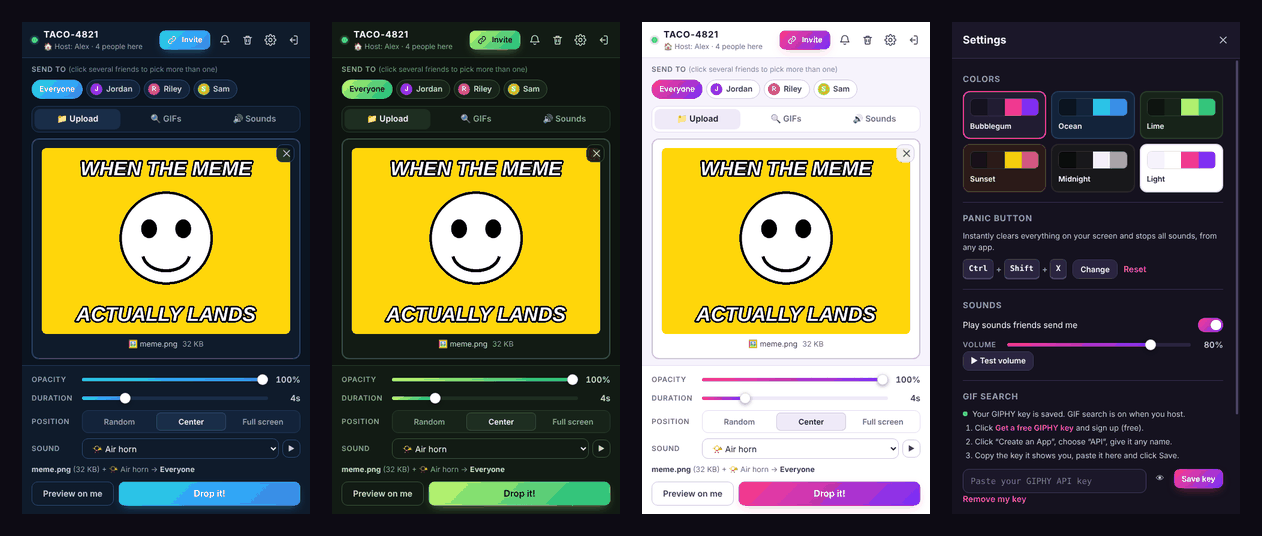
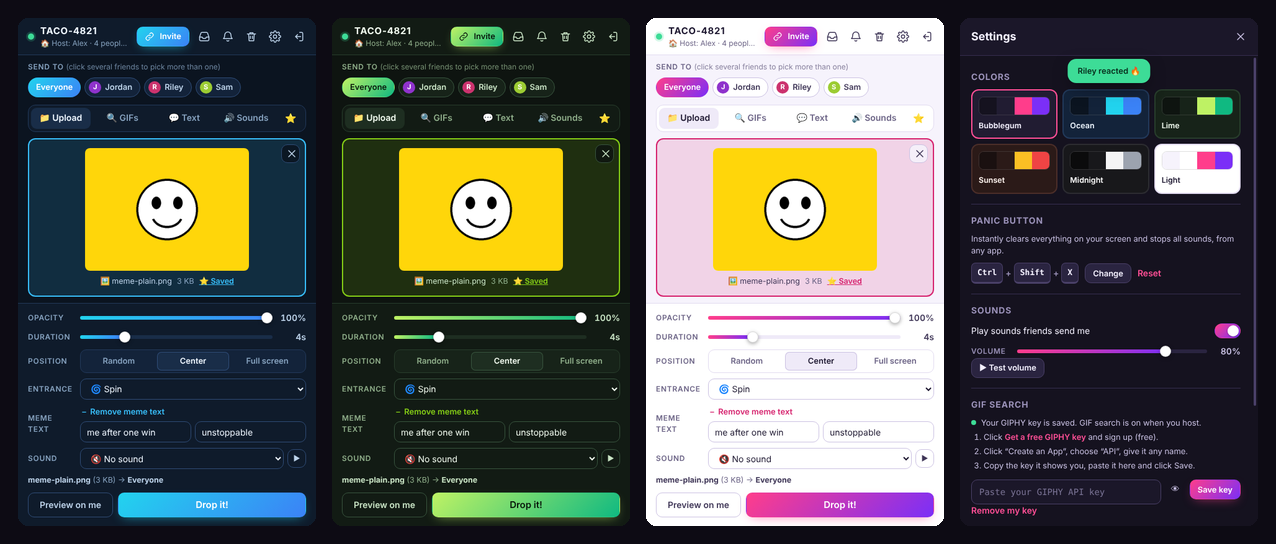
Version 1.3.0: README and fresh screenshots for saved memes, rain, inbox
Claude-Session: https://claude.ai/code/session_01JmXU7uwFXHB81srdErqxdf

diff --git a/README.md b/README.md
@@ -2,16 +2,16 @@
 
 Drop memes, GIFs, videos, sounds and messages straight onto your friends' screens.
 
-One friend clicks **Host a room** and sends everyone the invite link. Everyone else clicks it (or pastes it into MemeDrop) and they're in. Pick a friend, a few friends, or everyone, then drop an image, video, GIF, sound or a big text message. Friends can react with an emoji, and it pops up on your screen. It pops up on their screen over whatever they're doing, then disappears.
+One friend clicks **Host a room** and sends everyone the invite link. Everyone else clicks it (or pastes it into MemeDrop) and they're in. Pick a friend, a few friends, or everyone, then drop an image, video, GIF, sound or a big text message. It pops up on their screen over whatever they're doing, then disappears. They can react with an emoji, and it pops up on yours.
 
 **No terminal, no config files, no accounts.** Everything is done by clicking in the app.
 
 <p align="center">
-  <img src="docs/app.png" alt="MemeDrop: the welcome screen, sending a GIF with a sound to two friends, and the soundboard" width="760">
+  <img src="docs/app.png" alt="MemeDrop: the welcome screen, sending a GIF with an air horn to two friends, and the Text tab with Make it rain" width="760">
 </p>
 <p align="center">
-  <img src="docs/overlay.png" alt="A meme dropped on someone's screen, floating over their apps with the sender's name in the corner" width="640">
-  <br><sub>What your friend sees: the meme floats over their apps, and their mouse clicks pass straight through it.</sub>
+  <img src="docs/overlay.png" alt="A captioned meme and a GG EZ message floating over someone's apps, with emoji reactions in the corner" width="640">
+  <br><sub>What your friend sees: memes and messages float over their apps, and their mouse clicks pass straight through.</sub>
 </p>
 
 ---
@@ -22,7 +22,7 @@ One friend clicks **Host a room** and sends everyone the invite link. Everyone e
 
 Download the installer, run it, and MemeDrop opens. There's no admin password and nothing to set up.
 
-- **Get the installer:** on this repo's GitHub page, open **Actions → CI**, click the newest run with a green tick, scroll down to **Artifacts** and download **MemeDrop-Windows-Installer** (a zip with `MemeDrop Setup 1.2.0.exe` inside). Share that `.exe` with your friends however you like (Discord, Google Drive, USB stick).
+- **Get the installer:** on this repo's GitHub page, open **Actions → CI**, click the newest run with a green tick, scroll down to **Artifacts** and download **MemeDrop-Windows-Installer** (a zip with `MemeDrop Setup 1.3.0.exe` inside). Share that `.exe` with your friends however you like (Discord, Google Drive, USB stick).
 - **"Windows protected your PC"?** The installer isn't code-signed, because certificates cost money. Click **More info → Run anyway**.
 
 ### 2. One person hosts
@@ -51,7 +51,8 @@ Anyone in the room can click **Invite** (top bar) to copy the link and bring mor
 2. Pick what to drop:
    - **📁 Upload**: drop an image or video on the box, click to browse, or press **Ctrl+V** to paste a screenshot. Images: PNG, JPG, GIF, WebP up to 5 MB. Videos: MP4 or WebM up to 20 MB.
    - **🔍 GIFs**: trending GIFs and search, powered by GIPHY. Click to select; double-click to send instantly.
-   - **💬 Text**: type a message (up to 140 characters), pick a color, and press **Enter**. It lands as big outlined meme text.
+   - **💬 Text**: type a message (up to 140 characters), pick a color, and press **Enter**. It lands as big outlined meme text. Tick **🌧 Make it rain** and a short message or emoji (💀, GG, F) pours down their whole screen instead.
+   - **⭐ Saved**: your favorites. Pick an image, video or GIF, click **⭐ Save**, and it's here next time, a click away (double-click sends it right away). Saved memes stay on your PC.
    - **🔊 Sounds**: a soundboard (air horn, sad trombone, drum roll, ta-da…), or **upload your own** MP3/WAV/OGG/M4A. Click to hear it, double-click to send it straight away.
 3. Adjust:
    - **Opacity**: from faint (10%) to fully solid (100%).
@@ -61,6 +62,10 @@ Anyone in the room can click **Invite** (top bar) to copy the link and bring mor
    - **Meme text**: click **Add top/bottom text** to put classic meme captions on any image, GIF or video.
    - **Sound**: add a sound effect to any image, GIF or message. Videos can also play their own sound.
 4. **Preview on me** shows it on your own screen first. **Drop it!** (or **Ctrl+Enter**) sends it.
+
+<p align="center">
+  <img src="docs/features.png" alt="Adding meme text and a spin entrance to an upload, the Saved tab, and the inbox with emoji reactions" width="760">
+</p>
 
 ## Getting memes
 
@@ -75,7 +80,8 @@ Drops pop up with the sender's name in the corner, then fade away. They never st
 | 🔔 button | Mute everything friends send. |
 | ⚙ **Settings → Sounds** | Turn friends' sounds off or set the volume. |
 | ⚙ **Settings → Colors** | Six color themes: Bubblegum, Ocean, Lime, Sunset, Midnight, Light. |
-| Tray icon (by the clock) | Right-click for Mute, Play sounds, Clear screen, **Show memes on** (pick a monitor), **Start with Windows**, and Quit. |
+| ⚙ **Settings → Incoming memes** | **Show on**: pick which screen memes appear on (if you have more than one). **Start MemeDrop with Windows**: it starts quietly by the clock. |
+| Tray icon (by the clock) | Right-click for the same quick switches, and **Quit**. |
 
 <p align="center">
   <img src="docs/themes.png" alt="MemeDrop in the Ocean, Lime and Light themes, and the Settings panel" width="760">
@@ -121,7 +127,7 @@ There are no accounts, so anyone with the invite link can join. Only share it wi
 - **Sizes:** images 5 MB, videos 20 MB, uploaded sounds 3 MB. Whole-clip videos and sounds stop after 60 s.
 - **GIFs** can only come from GIPHY, and the overlay window is locked down so it can't load anything else.
 - **Spam limits:** about 8 drops per 10 seconds per person, 12 reactions per 10 seconds, 20 GIF searches a minute, 30 people per room, and at most 6 things on screen at once.
-- **Messages and captions** are plain text (140 and 80 characters). Colors and effects come from a fixed list, so nobody can sneak styling or links into your overlay.
+- **Messages and captions** are plain text (140 and 80 characters; rain only for 20 or fewer). Colors and effects come from a fixed list, so nobody can sneak styling or links into your overlay.
 - **The app itself:** its pages run sandboxed without Node access, can't open pop-ups or navigate away, and camera/microphone/other permission requests are always denied.
 
 ---
